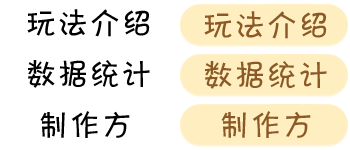
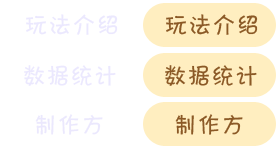
Add helpMenuBG and helpInfoBG. H

diff --git a/src/org/game/bangyouscreen/scene/ShopScene.java b/src/org/game/bangyouscreen/scene/ShopScene.java
@@ -48,16 +48,16 @@ public class ShopScene extends ManagedScene implements IScrollDetectorListener{
 	private ButtonSprite weaponFontBS;
 	private Sprite weaponFontClickSprite;
 	private ButtonSprite freeGoldBS;
-	private ButtonSprite shareFontBS;
-	private Sprite shareFontClickSprite;
+	private ButtonSprite currentFontBS;
+	private Sprite currentFontClickSprite;
 	private Sprite weaponInfoBG;
 	private Sprite magicInfoBG;
 	private Sprite propsInfoBG;
-	private Sprite shareInfoBG;
+	private Sprite currentInfoBG;
 	private Rectangle weaponInfoBG_S;
 	private Rectangle magicInfoBG_S;
 	private Rectangle propsInfoBG_S;
-	private Rectangle shareInfoBG_S;
+	private Rectangle currentInfoBG_S;
 	private SurfaceScrollDetector mScrollDetector;
 	private boolean isScrolling = false;
 	private boolean isTouch = true;//控制道具栏不能滚动
@@ -166,10 +166,10 @@ public class ShopScene extends ManagedScene implements IScrollDetectorListener{
 			public void onClick(ButtonSprite pButtonSprite, float pTouchAreaLocalX, float pTouchAreaLocalY) {
 				SFXManager.getInstance().playSound("a_click");
 				clickMenu(propFontBS,propFontClickSprite,propsInfoBG,propsInfoBG_S);
-				shareFontClickSprite = propFontClickSprite;
-				shareFontBS = propFontBS;	
-				shareInfoBG = propsInfoBG;
-				shareInfoBG_S = propsInfoBG_S;
+				currentFontClickSprite = propFontClickSprite;
+				currentFontBS = propFontBS;	
+				currentInfoBG = propsInfoBG;
+				currentInfoBG_S = propsInfoBG_S;
 				isTouch = false;
 			}
 		});
@@ -191,10 +191,10 @@ public class ShopScene extends ManagedScene implements IScrollDetectorListener{
 			public void onClick(ButtonSprite pButtonSprite, float pTouchAreaLocalX, float pTouchAreaLocalY) {
 				SFXManager.getInstance().playSound("a_click");
 				clickMenu(magicFontBS,magicFontClickSprite,magicInfoBG,magicInfoBG_S);
-				shareFontClickSprite = magicFontClickSprite;
-				shareFontBS = magicFontBS;	
-				shareInfoBG = magicInfoBG;
-				shareInfoBG_S = magicInfoBG_S;
+				currentFontClickSprite = magicFontClickSprite;
+				currentFontBS = magicFontBS;	
+				currentInfoBG = magicInfoBG;
+				currentInfoBG_S = magicInfoBG_S;
 				isTouch = true;
 			}
 		});
@@ -212,7 +212,7 @@ public class ShopScene extends ManagedScene implements IScrollDetectorListener{
 		weaponFontClickSprite.setSize(propFontBS.getWidth(), propFontBS.getHeight());
 		weaponFontClickSprite.setPosition(shopMenuBG.getWidth()/2f, magicFontBS.getY()+spaceHeight+magicFontBS.getHeight());
 		shopMenuBG.attachChild(weaponFontClickSprite);
-		shareFontClickSprite = weaponFontClickSprite;
+		currentFontClickSprite = weaponFontClickSprite;
 		
 		//武器文本
 		weaponFontBS = new ButtonSprite(0f,0f,ResourceManager.shopMenu.getTextureRegion(0),mVertexBufferObjectManager);
@@ -224,14 +224,14 @@ public class ShopScene extends ManagedScene implements IScrollDetectorListener{
 			public void onClick(ButtonSprite pButtonSprite, float pTouchAreaLocalX, float pTouchAreaLocalY) {
 				SFXManager.getInstance().playSound("a_click");
 				clickMenu(weaponFontBS,weaponFontClickSprite,weaponInfoBG,weaponInfoBG_S);
-				shareFontClickSprite = weaponFontClickSprite;
-				shareFontBS = weaponFontBS;
-				shareInfoBG = weaponInfoBG;
-				shareInfoBG_S = weaponInfoBG_S;
+				currentFontClickSprite = weaponFontClickSprite;
+				currentFontBS = weaponFontBS;
+				currentInfoBG = weaponInfoBG;
+				currentInfoBG_S = weaponInfoBG_S;
 				isTouch = true;
 			}
 		});
-		shareFontBS = weaponFontBS;
+		currentFontBS = weaponFontBS;
 		//顶部云
 		propTopBG = new Sprite(0f,0f,ResourceManager.shopPropBG.getTextureRegion(0),mVertexBufferObjectManager);
 		EntityUtil.setSize("width", 342f/800f, propTopBG);
@@ -333,8 +333,8 @@ public class ShopScene extends ManagedScene implements IScrollDetectorListener{
 					mCameraWidth-infoBG.getWidth()/2f, infoBG.getY(), EaseElasticInOut.getInstance()));
 			infoBG_S.registerEntityModifier(new MoveModifier(0.5f, infoBG_S.getX(), infoBG_S.getY(),
 					mCameraWidth-infoBG_S.getWidth()/2f, mCameraHeight-infoBG_S.getHeight()/2f, EaseElasticInOut.getInstance()));
-			shareInfoBG = infoBG;
-			shareInfoBG_S = infoBG_S;
+			currentInfoBG = infoBG;
+			currentInfoBG_S = infoBG_S;
 			addInfoByType(type,infoArray,ResourceManager.weaponInfosTTR);
 		}else if(DataConstant.MAGIC_NAME.equals(type)){
 			//待修改
@@ -519,12 +519,12 @@ public class ShopScene extends ManagedScene implements IScrollDetectorListener{
 		unregisterTouchArea(entityBS);
 		entitySprite.setVisible(true);
 		
-		shareFontClickSprite.setVisible(false);
-		shareFontBS.setVisible(true);
-		registerTouchArea(shareFontBS);
+		currentFontClickSprite.setVisible(false);
+		currentFontBS.setVisible(true);
+		registerTouchArea(currentFontBS);
 		
-		shareInfoBG.registerEntityModifier(new MoveYModifier(0.2f, shareInfoBG.getY(), -shareInfoBG.getHeight()/2f));
-		shareInfoBG_S.registerEntityModifier(new MoveYModifier(0.2f, shareInfoBG_S.getY(), -shareInfoBG_S.getHeight()/2f));
+		currentInfoBG.registerEntityModifier(new MoveYModifier(0.2f, currentInfoBG.getY(), -currentInfoBG.getHeight()/2f));
+		currentInfoBG_S.registerEntityModifier(new MoveYModifier(0.2f, currentInfoBG_S.getY(), -currentInfoBG_S.getHeight()/2f));
 		infoBG.registerEntityModifier(new MoveModifier(0.5f, mCameraWidth+infoBG.getWidth()/2f, mCameraHeight/2f,
 				mCameraWidth-infoBG.getWidth()/2f, mCameraHeight/2f, EaseElasticInOut.getInstance()));
 		infoBG_S.registerEntityModifier(new MoveModifier(0.5f, mCameraWidth+infoBG_S.getWidth()/2f, mCameraHeight-infoBG_S.getHeight()/2f,
@@ -532,7 +532,7 @@ public class ShopScene extends ManagedScene implements IScrollDetectorListener{
 	}
 
 	public boolean onSceneTouchEvent(TouchEvent paramTouchEvent){
-		if(paramTouchEvent.getX() > shareInfoBG.getX()-shareInfoBG.getWidth()/2f){
+		if(paramTouchEvent.getX() > currentInfoBG.getX()-currentInfoBG.getWidth()/2f){
 			isScrolling = true;
 		}else{
 			isScrolling = false;
@@ -551,17 +551,17 @@ public class ShopScene extends ManagedScene implements IScrollDetectorListener{
 	public void onScroll(ScrollDetector pScollDetector, int pPointerID,
 			float pDistanceX, float pDistanceY) {
 		if(isScrolling && isTouch){
-			shareInfoBG_S.setY(shareInfoBG_S.getY()-pDistanceY);
+			currentInfoBG_S.setY(currentInfoBG_S.getY()-pDistanceY);
 		}
 	}
 
 	@Override
 	public void onScrollFinished(ScrollDetector pScollDetector, int pPointerID,
 			float pDistanceX, float pDistanceY) {
-		if(shareInfoBG_S.getY()+shareInfoBG_S.getHeight()/2f <= mCameraHeight){
-			shareInfoBG_S.registerEntityModifier(new MoveYModifier(0.5f,shareInfoBG_S.getY(),mCameraHeight-shareInfoBG_S.getHeight()/2f));
-		}else if(shareInfoBG_S.getY()-shareInfoBG_S.getHeight()/2f >= 0f){
-			shareInfoBG_S.registerEntityModifier(new MoveYModifier(0.5f,shareInfoBG_S.getY(),shareInfoBG_S.getHeight()/2f));
+		if(currentInfoBG_S.getY()+currentInfoBG_S.getHeight()/2f <= mCameraHeight){
+			currentInfoBG_S.registerEntityModifier(new MoveYModifier(0.5f,currentInfoBG_S.getY(),mCameraHeight-currentInfoBG_S.getHeight()/2f));
+		}else if(currentInfoBG_S.getY()-currentInfoBG_S.getHeight()/2f >= 0f){
+			currentInfoBG_S.registerEntityModifier(new MoveYModifier(0.5f,currentInfoBG_S.getY(),currentInfoBG_S.getHeight()/2f));
 		}
 	}
 

diff --git a/src/org/game/bangyouscreen/scene/HelpScene.java b/src/org/game/bangyouscreen/scene/HelpScene.java
@@ -22,15 +22,18 @@ public class HelpScene extends ManagedScene{
 	private float mCameraHeight = ResourceManager.getCamera().getHeight();
 	private VertexBufferObjectManager mVertexBufferObjectManager = ResourceManager.getEngine().getVertexBufferObjectManager();
 	
-	private Sprite shareFontClickSprite;
-	private ButtonSprite shareFontBS;
+	private Sprite currentFontClickSprite;
+	private ButtonSprite currentFontBS;
 	private Sprite playClickSprite;
 	private ButtonSprite playBS;
 	private Sprite statisticsClickSprite;
 	private ButtonSprite statisticsBS;
 	private Sprite authorClickSprite;
 	private ButtonSprite authorBS;
-	private Sprite helpInfoBG;
+	private Sprite playInfoBG;
+	private Sprite statisticsInfoBG;
+	private Sprite authorInfoBG;
+	private Sprite currentInfoBG;
 	
 	public static HelpScene getInstance(){
 		return INSTANCE;
@@ -73,7 +76,7 @@ public class HelpScene extends ManagedScene{
 		
 		
 		//菜单背景
-		Sprite helpMenuBG = new Sprite(0f,0f, ResourceManager.shopMenuBG,mVertexBufferObjectManager);
+		Sprite helpMenuBG = new Sprite(0f,0f, ResourceManager.helpMenuBG,mVertexBufferObjectManager);
 		EntityUtil.setSize("height", 0.5f, helpMenuBG);
 		helpMenuBG.setPosition(0f-helpMenuBG.getWidth()/2f, mCameraHeight/2f);
 		helpMenuBG.registerEntityModifier(new MoveModifier(0.5f, helpMenuBG.getX(), helpMenuBG.getY(), 
@@ -90,9 +93,10 @@ public class HelpScene extends ManagedScene{
 		authorBS.setOnClickListener(new OnClickListener(){
 			public void onClick(ButtonSprite pButtonSprite, float pTouchAreaLocalX, float pTouchAreaLocalY) {
 				SFXManager.getInstance().playSound("a_click");
-				clickMenu(authorBS,authorClickSprite);
-				shareFontClickSprite = authorClickSprite;
-				shareFontBS = authorBS;	
+				clickMenu(authorBS,authorClickSprite,authorInfoBG);
+				currentFontClickSprite = authorClickSprite;
+				currentFontBS = authorBS;	
+				currentInfoBG = authorInfoBG;
 			}
 		});
 		registerTouchArea(authorBS);
@@ -112,9 +116,10 @@ public class HelpScene extends ManagedScene{
 		statisticsBS.setOnClickListener(new OnClickListener(){
 			public void onClick(ButtonSprite pButtonSprite, float pTouchAreaLocalX, float pTouchAreaLocalY) {
 				SFXManager.getInstance().playSound("a_click");
-				clickMenu(statisticsBS,statisticsClickSprite);
-				shareFontClickSprite = statisticsClickSprite;
-				shareFontBS = statisticsBS;	
+				clickMenu(statisticsBS,statisticsClickSprite,statisticsInfoBG);
+				currentFontClickSprite = statisticsClickSprite;
+				currentFontBS = statisticsBS;	
+				currentInfoBG = statisticsInfoBG;
 			}
 		});
 		registerTouchArea(statisticsBS);
@@ -131,7 +136,7 @@ public class HelpScene extends ManagedScene{
 		playClickSprite.setSize(authorBS.getWidth(), authorBS.getHeight());
 		playClickSprite.setPosition(helpMenuBG.getWidth()/2f, statisticsBS.getY()+spaceHeight+statisticsBS.getHeight());
 		helpMenuBG.attachChild(playClickSprite);
-		shareFontClickSprite = playClickSprite;
+		currentFontClickSprite = playClickSprite;
 		
 		//玩法文本
 		playBS = new ButtonSprite(0f,0f,ResourceManager.helpTitleTTR.getTextureRegion(0),mVertexBufferObjectManager);
@@ -142,14 +147,35 @@ public class HelpScene extends ManagedScene{
 		playBS.setOnClickListener(new OnClickListener(){
 			public void onClick(ButtonSprite pButtonSprite, float pTouchAreaLocalX, float pTouchAreaLocalY) {
 				SFXManager.getInstance().playSound("a_click");
-				clickMenu(playBS,playClickSprite);
-				shareFontClickSprite = playClickSprite;
-				shareFontBS = playBS;
+				clickMenu(playBS,playClickSprite,playInfoBG);
+				currentFontClickSprite = playClickSprite;
+				currentFontBS = playBS;
+				currentInfoBG = playInfoBG;
 			}
 		});
-		shareFontBS = playBS;
+		currentFontBS = playBS;
+		currentInfoBG = playInfoBG;
 		
-		helpInfoBG = new Sprite(0f,0f,ResourceManager.shopInfoBG,mVertexBufferObjectManager);
+		playInfoBG = new Sprite(0f,0f,ResourceManager.helpInfoBG,mVertexBufferObjectManager);
+		playInfoBG.setSize(mCameraWidth-(3f/2f)*helpMenuBG.getWidth(), mCameraHeight);
+		playInfoBG.setPosition(mCameraWidth+playInfoBG.getWidth()/2f, mCameraHeight/2f);
+		attachChild(playInfoBG);
+		playInfoBG.registerEntityModifier(new MoveModifier(0.5f, playInfoBG.getX(), playInfoBG.getY(),
+				mCameraWidth-playInfoBG.getWidth()/2f, playInfoBG.getY(), EaseElasticInOut.getInstance()));
+		
+		statisticsInfoBG = new Sprite(0f,0f,ResourceManager.helpInfoBG,mVertexBufferObjectManager);
+		statisticsInfoBG.setSize(mCameraWidth-(3f/2f)*helpMenuBG.getWidth(), mCameraHeight);
+		statisticsInfoBG.setPosition(mCameraWidth+statisticsInfoBG.getWidth()/2f, mCameraHeight/2f);
+		statisticsInfoBG.setVisible(false);
+		attachChild(statisticsInfoBG);
+		
+		authorInfoBG = new Sprite(0f,0f,ResourceManager.helpInfoBG,mVertexBufferObjectManager);
+		authorInfoBG.setSize(mCameraWidth-(3f/2f)*helpMenuBG.getWidth(), mCameraHeight);
+		authorInfoBG.setPosition(mCameraWidth+authorInfoBG.getWidth()/2f, mCameraHeight/2f);
+		authorInfoBG.setVisible(false);
+		attachChild(authorInfoBG);
+		
+		
 		
 		
 	}
@@ -177,14 +203,17 @@ public class HelpScene extends ManagedScene{
 	 * @author zuowhat 2014-02-10
 	 * @since 1.0
 	 */
-	private void clickMenu(Entity entityBS,Entity entitySprite){
+	private void clickMenu(Entity entityBS,Entity entitySprite, Sprite bgSprite){
 		entityBS.setVisible(false);
 		unregisterTouchArea(entityBS);
 		entitySprite.setVisible(true);
 		
-		shareFontClickSprite.setVisible(false);
-		shareFontBS.setVisible(true);
-		registerTouchArea(shareFontBS);
+		currentFontClickSprite.setVisible(false);
+		currentFontBS.setVisible(true);
+		registerTouchArea(currentFontBS);
+		
+		currentInfoBG.setVisible(false);
+		bgSprite.setVisible(true);
 		
 	}
 

diff --git a/src/org/game/bangyouscreen/managers/ResourceManager.java b/src/org/game/bangyouscreen/managers/ResourceManager.java
@@ -92,6 +92,8 @@ public class ResourceManager extends Object{
 	public static TextureRegion isUse;
 	public static TextureRegion helpBG;
 	public static TiledTextureRegion helpTitleTTR;
+	public static TextureRegion helpMenuBG;
+	public static TextureRegion helpInfoBG;
 	
 	
 	
@@ -421,7 +423,12 @@ public class ResourceManager extends Object{
 		if(helpTitleTTR == null){
 			helpTitleTTR = getLimitableTTR("helpTitle.png",2,3,mNormalTextureOption);
 		}
-		
+		if(helpMenuBG == null){
+			helpMenuBG = getLimitableTR("helpMenuBG.png",mNormalTextureOption);
+		}
+		if(helpInfoBG == null){
+			helpInfoBG = getLimitableTR("helpInfoBG.png",mNormalTextureOption);
+		}
 		BitmapTextureAtlasTextureRegionFactory.setAssetBasePath(mPreviousAssetBasePath);
 	}
 	
